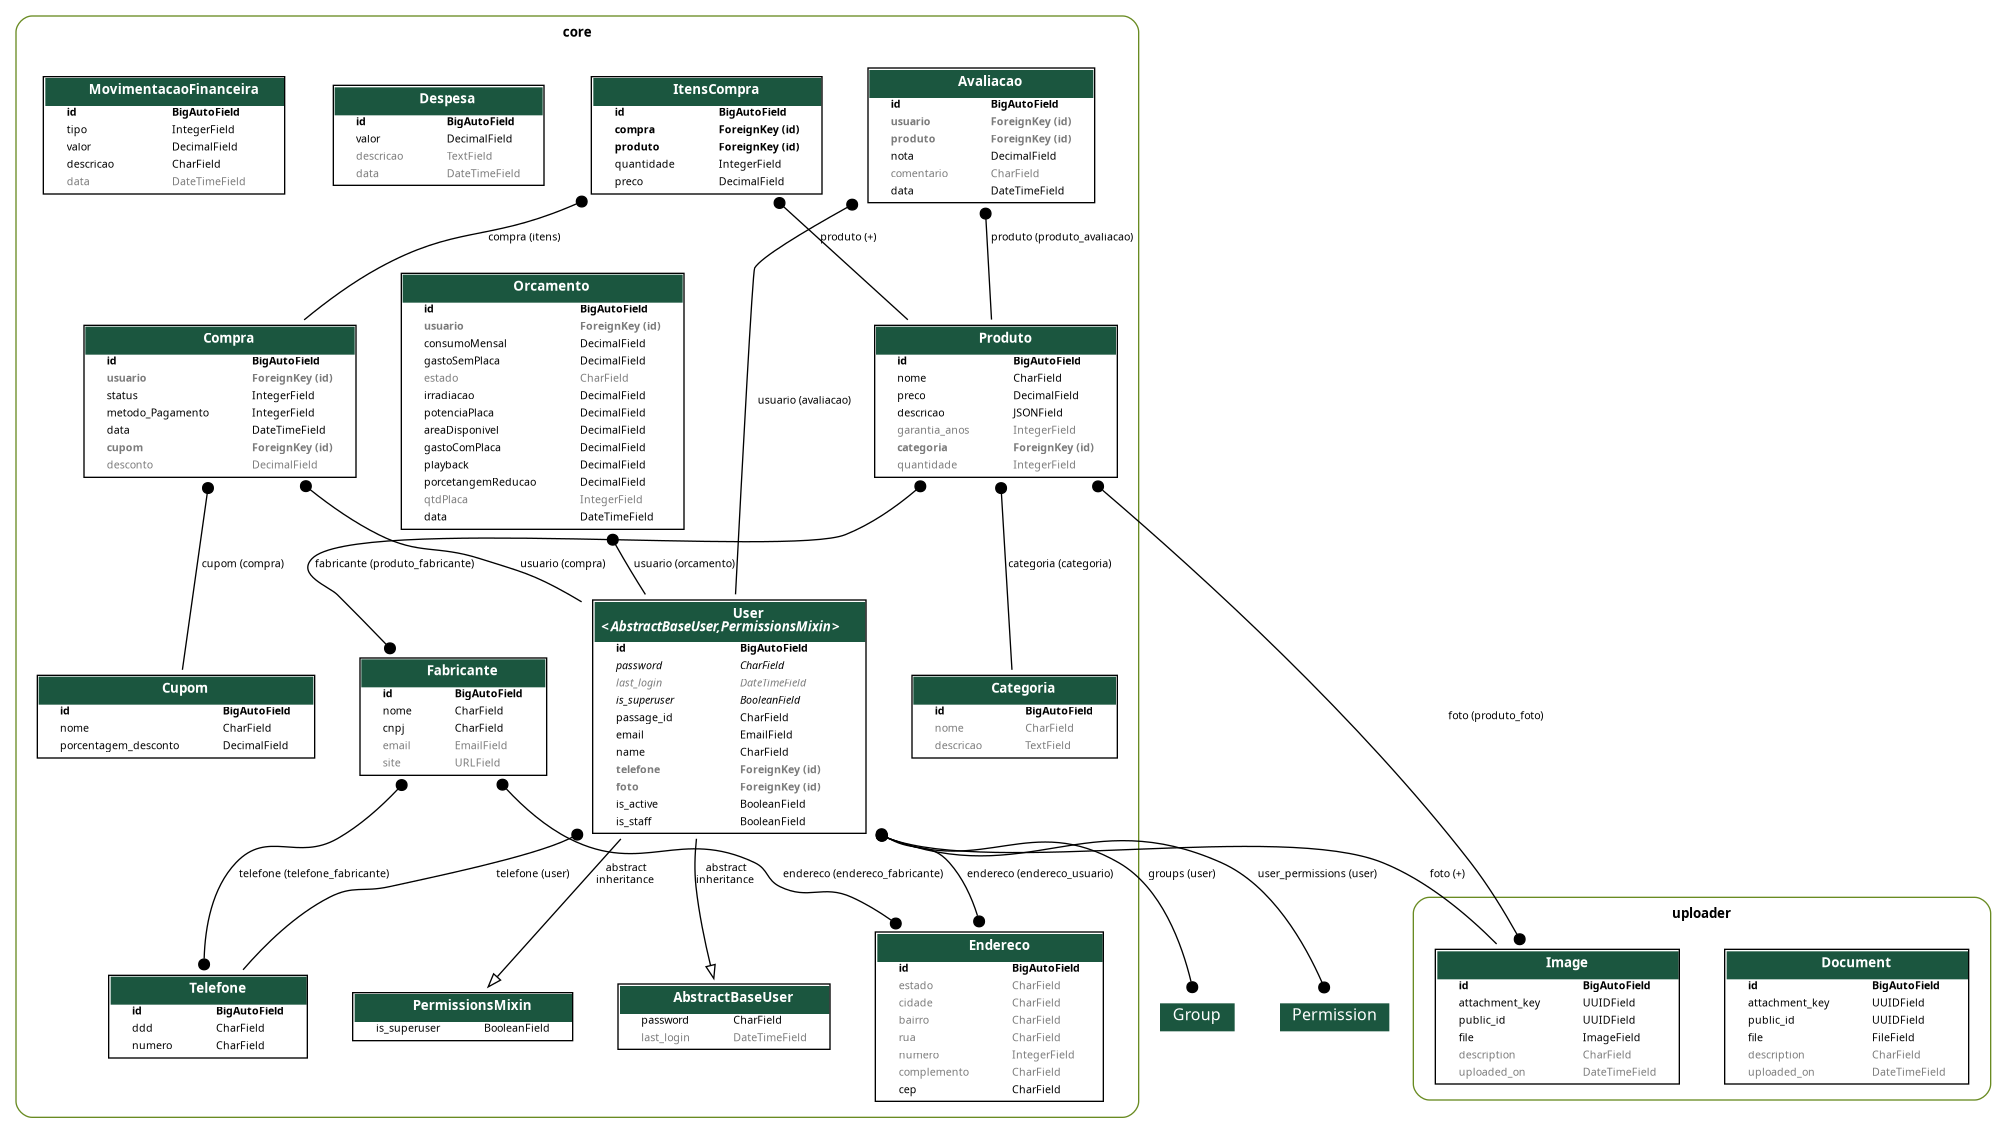
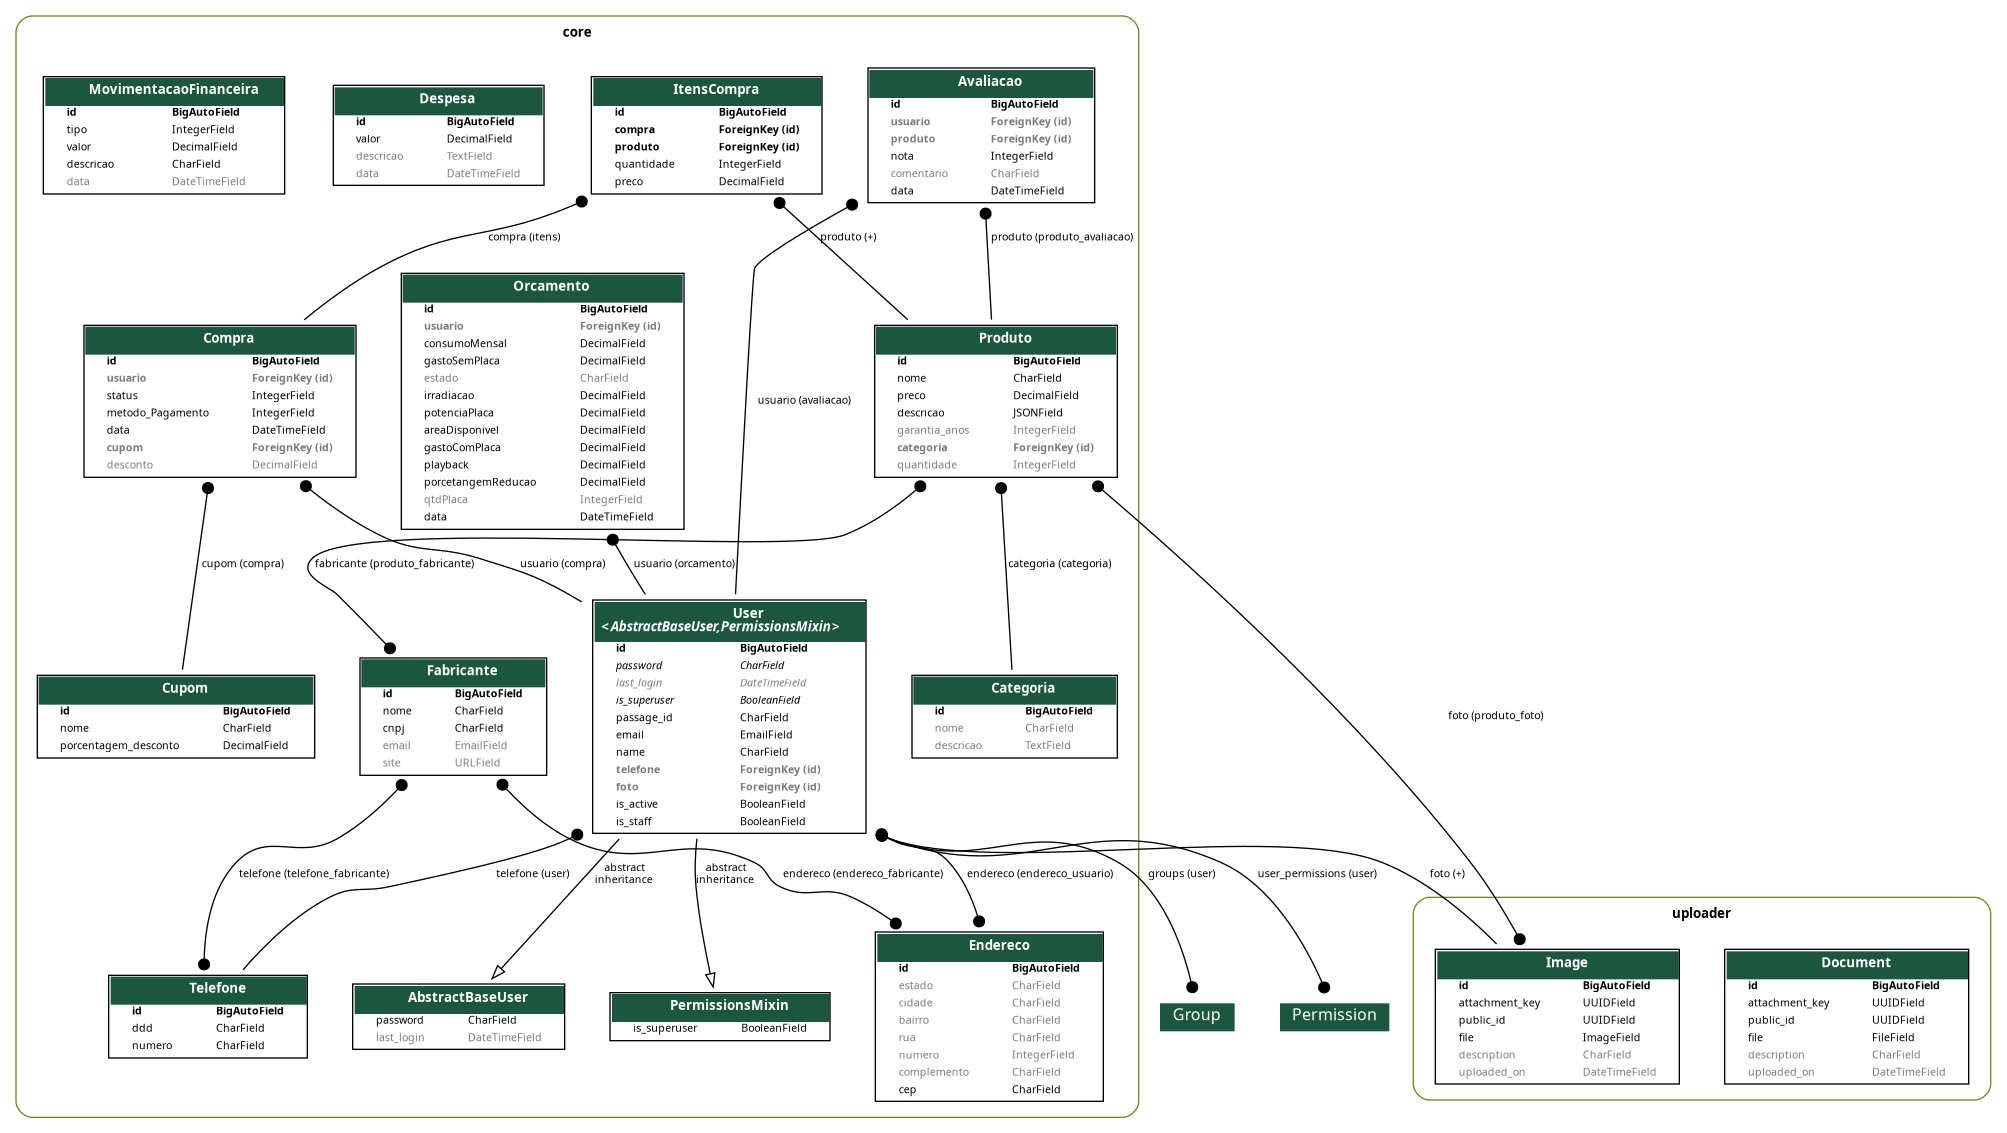
FIX: Erros corrigidos #40

Changed region(s): [[0.1545, 0.865, 0.4325, 0.9267], [0.278, 0.7414, 0.3089, 0.8032], [0.4943, 0.1236, 0.5252, 0.1545]]

diff --git a/app/settings.py b/app/settings.py
@@ -145,17 +145,26 @@ SPECTACULAR_SETTINGS = {
 AUTH_USER_MODEL = "core.User"
 
 REST_FRAMEWORK = {
-    "DEFAULT_AUTHENTICATION_CLASSES": ("core.authentication.TokenAuthentication",), # Autenticação no passage.id
-    "DEFAULT_PERMISSION_CLASSES": ("rest_framework.permissions.DjangoModelPermissionsOrAnonReadOnly", ), 
-    "DEFAULT_PERMISSION_CLASSES": [
-        'rest_framework.permissions.AllowAny',  # Permite acesso sem autenticação
+    # Classes de autenticação
+    "DEFAULT_AUTHENTICATION_CLASSES": [
+        "core.authentication.TokenAuthentication",  # Autenticação customizada do passage.id
+        # "rest_framework_simplejwt.authentication.JWTAuthentication",  # Autenticação JWT
     ],
-    # "DEFAULT_PERMISSION_CLASSES": ("rest_framework.permissions.DjangoModelPermissionsOrAnonReadOnly",), # Permissões através dos grupos do Django
+
+    # Classes de permissão
+    "DEFAULT_PERMISSION_CLASSES": [
+          "rest_framework.permissions.DjangoModelPermissionsOrAnonReadOnly", # Permissões baseadas em grupos
+        # "rest_framework.permissions.AllowAny",  # Permitir acesso irrestrito (use para testes apenas)
+    ],
+
+    # Paginação
     "DEFAULT_PAGINATION_CLASS": "rest_framework.pagination.PageNumberPagination",
+    "PAGE_SIZE": 20,
+
+    # Configuração de schemas para documentação (como Swagger)
     "DEFAULT_SCHEMA_CLASS": "drf_spectacular.openapi.AutoSchema",
-    "PAGE_SIZE": 10,
-    "DEFAULT_AUTHENTICATION_CLASSES": ("rest_framework_simplejwt.authentication.JWTAuthentication",), #Autenticação com JWT
 }
+
 
 PASSAGE_APP_ID = "V0alwA7XSzKK5hRenPSvbiYf"
 PASSAGE_API_KEY = "OIBsFjDqbO.ZRSTN07P4Xb72detsxQmgMKdKWpx1XdYu4VoE3NjXmjeu0Ms3FDolGteWlf3GXVm"

diff --git a/core/views/produto.py b/core/views/produto.py
@@ -4,19 +4,20 @@ from rest_framework.filters import OrderingFilter, SearchFilter
 from rest_framework.response import Response
 from rest_framework.viewsets import ModelViewSet
 from django_filters.rest_framework import DjangoFilterBackend
-from rest_framework.permissions import AllowAny
+# from rest_framework.permissions import AllowAny
+from rest_framework.permissions import DjangoModelPermissionsOrAnonReadOnly
+from rest_framework.pagination import PageNumberPagination
 
 from core.models import Produto
 from core.serializers import ProdutoSerializer, ProdutoDetailSerializer, AlterarPrecoSerializer
 
 
 class ProdutoViewSet(ModelViewSet):
-    queryset = Produto.objects.all()
+    queryset = Produto.objects.all().order_by('id')  # Adicione .order_by() aqui
+    pagination_class = PageNumberPagination
     serializer_class = ProdutoSerializer
-    permission_classes = [AllowAny]
-    authentication_classes = [] # Permite acesso a todos
-    # filter_backends = [DjangoFilterBackend]
-    # filterset_fields = ["categoria__descricao", "fabricante_nome" , "preco"]
+    permission_classes = [DjangoModelPermissionsOrAnonReadOnly]
+    authentication_classes = [] 
 
     def get_serializer_class(self):
         if self.action in ["list", "retrieve"]:

diff --git a/app/urls.py b/app/urls.py
@@ -10,6 +10,7 @@ from rest_framework.routers import DefaultRouter
 from rest_framework_simplejwt.views import TokenObtainPairView, TokenRefreshView
 from django.conf.urls.static import static
 from uploader.router import router as uploader_router
+from uploader.views import ImageUploadViewSet
 from django.conf import settings
 from core.views import UserViewSet, ProdutoViewSet, FabricanteViewSet, AvaliacaoViewSet, EnderecoViewSet, TelefoneViewSet, DespesaViewSet, CupomViewSet, CompraViewSet, MovimentacaoViewSet, OrcamentoViewSet, CategoriaViewSet
 from core.views.email.envioEmail import EnviarEmailAPIView
@@ -27,6 +28,7 @@ router.register(r"compras", CompraViewSet)
 router.register(r"movimentacoes", MovimentacaoViewSet)
 router.register(r"orcamentos", OrcamentoViewSet)
 router.register(r"orcamentos", CategoriaViewSet)
+router.register(r'images', ImageUploadViewSet, basename='image')
 
 urlpatterns = [
     path("admin/", admin.site.urls),

diff --git a/core/views/avaliacao.py b/core/views/avaliacao.py
@@ -1,10 +1,18 @@
 from rest_framework.viewsets import ModelViewSet
 from django_filters.rest_framework import DjangoFilterBackend
 from core.models import Avaliacao
-from core.serializers import AvaliacaoSerializer
+from core.serializers import AvaliacaoSerializer, AvaliacaoDetailSerializer
+from rest_framework.permissions import DjangoModelPermissionsOrAnonReadOnly, AllowAny
 
 class AvaliacaoViewSet(ModelViewSet):
     queryset = Avaliacao.objects.all()
     serializer_class = AvaliacaoSerializer
+    permission_classes = [AllowAny]  # Permite acesso sem autenticação
+    authentication_classes = [] 
     # filter_backends = [DjangoFilterBackend]
     # filterset_fields = ["usuario", "produto_nome" , "nota", "data"]
+    
+    def get_serializer_class(self):
+        if self.action in ["list", "retrieve"]:
+            return AvaliacaoDetailSerializer
+        return AvaliacaoSerializer

diff --git a/uploader/serializers/image.py b/uploader/serializers/image.py
@@ -7,7 +7,7 @@ from uploader.models import Image
 class ImageUploadSerializer(serializers.ModelSerializer):
     class Meta:
         model = Image
-        fields = ["attachment_key", "file", "description", "uploaded_on", "url"]
+        fields = ["id","attachment_key", "file", "description", "uploaded_on", "url"]
         read_only_fields = ["attachment_key", "uploaded_on", "url"]
         extra_kwargs = {"file": {"write_only": True}}
 
@@ -21,7 +21,7 @@ class ImageUploadSerializer(serializers.ModelSerializer):
 class ImageSerializer(serializers.ModelSerializer):
     class Meta:
         model = Image
-        fields = ["url", "description", "uploaded_on"]
+        fields = ["id","url", "description", "uploaded_on"]
         read_only_fields = ["url", "attachment_key", "uploaded_on"]
 
     def create(self, validated_data):

diff --git a/core/views/compra.py b/core/views/compra.py
@@ -4,6 +4,7 @@ from rest_framework.decorators import action
 from rest_framework.response import Response
 from django.utils import timezone
 from django_filters.rest_framework import DjangoFilterBackend
+from rest_framework.permissions import DjangoModelPermissionsOrAnonReadOnly
 
 from core.models import Compra, Cupom
 from core.serializers import CompraSerializer, CriarEditarCompraSerializer, ListarCompraSerializer
@@ -12,6 +13,9 @@ from django.db import transaction
 class CompraViewSet(ModelViewSet):
     queryset = Compra.objects.all()
     serializer_class = CompraSerializer
+    permission_classes = [DjangoModelPermissionsOrAnonReadOnly]
+    authentication_classes = [] 
+
     # filter_backends = [DjangoFilterBackend]
     # filterset_fields = ["usuario", "status" , "metodo_Pagamento", "data", "cupom_nome"]
     

diff --git a/uploader/views.py b/uploader/views.py
@@ -14,7 +14,10 @@ class DocumentUploadViewSet(CreateViewSet):
     parser_classes = [parsers.FormParser, parsers.MultiPartParser]
 
 
-class ImageUploadViewSet(CreateViewSet):
-    queryset = Image.objects.all() #  pylint: disable=no-member
+class ImageUploadViewSet(mixins.ListModelMixin,
+                         mixins.CreateModelMixin,
+                         mixins.DestroyModelMixin,  # Permite exclusão
+                         viewsets.GenericViewSet):
+    queryset = Image.objects.all()  # Consulta todas as imagens
     serializer_class = ImageUploadSerializer
     parser_classes = [parsers.FormParser, parsers.MultiPartParser]

diff --git a/core/models/avaliacao.py b/core/models/avaliacao.py
@@ -7,7 +7,7 @@ from .produto import Produto
 class Avaliacao(models.Model):
    usuario = models.ForeignKey(User, on_delete=models.PROTECT, related_name="avaliacao", null=True, blank=True)
    produto = models.ForeignKey(Produto, on_delete=models.PROTECT, related_name="produto_avaliacao", null=True, blank=True)
-   nota = models.DecimalField( max_digits=3, decimal_places=2, null=False, blank=False)
+   nota = models.IntegerField(  null=False, blank=False)
    comentario = models.CharField(max_length=500, null=True, blank=True)
    data = models.DateTimeField(default=timezone.now)
   

diff --git a/core/migrations/0045_alter_avaliacao_nota.py b/core/migrations/0045_alter_avaliacao_nota.py
@@ -1,0 +1,18 @@
+# Generated by Django 4.2.16 on 2024-12-05 09:19
+
+from django.db import migrations, models
+
+
+class Migration(migrations.Migration):
+
+    dependencies = [
+        ("core", "0044_rename_garantia_meses_produto_garantia_anos"),
+    ]
+
+    operations = [
+        migrations.AlterField(
+            model_name="avaliacao",
+            name="nota",
+            field=models.IntegerField(),
+        ),
+    ]

diff --git a/core/serializers/__init__.py b/core/serializers/__init__.py
@@ -1,7 +1,7 @@
 from .user import UserSerializer
 from .produto import ProdutoSerializer, ProdutoDetailSerializer, AlterarPrecoSerializer
 from .fabricante import FabricanteSerializer
-from .avaliacao import AvaliacaoSerializer
+from .avaliacao import AvaliacaoSerializer, AvaliacaoDetailSerializer
 from .endereco import EnderecoSerializer
 from .telefone import TelefoneSerializer
 from .despesa import DespesaSerializer

diff --git a/core/serializers/avaliacao.py b/core/serializers/avaliacao.py
@@ -6,3 +6,9 @@ class AvaliacaoSerializer(ModelSerializer):
     class Meta:
         model = Avaliacao
         fields = "__all__"
+        
+class AvaliacaoDetailSerializer(ModelSerializer):
+    class Meta:
+        model = Avaliacao
+        fields = "__all__"
+        depth = 2

diff --git a/core/views/user.py b/core/views/user.py
@@ -8,6 +8,7 @@ from core.models import User
 from core.serializers import UserSerializer
 
 
+
 class UserViewSet(ModelViewSet):
     permission_classes = [IsAuthenticated]
     queryset = User.objects.all().order_by("id")
